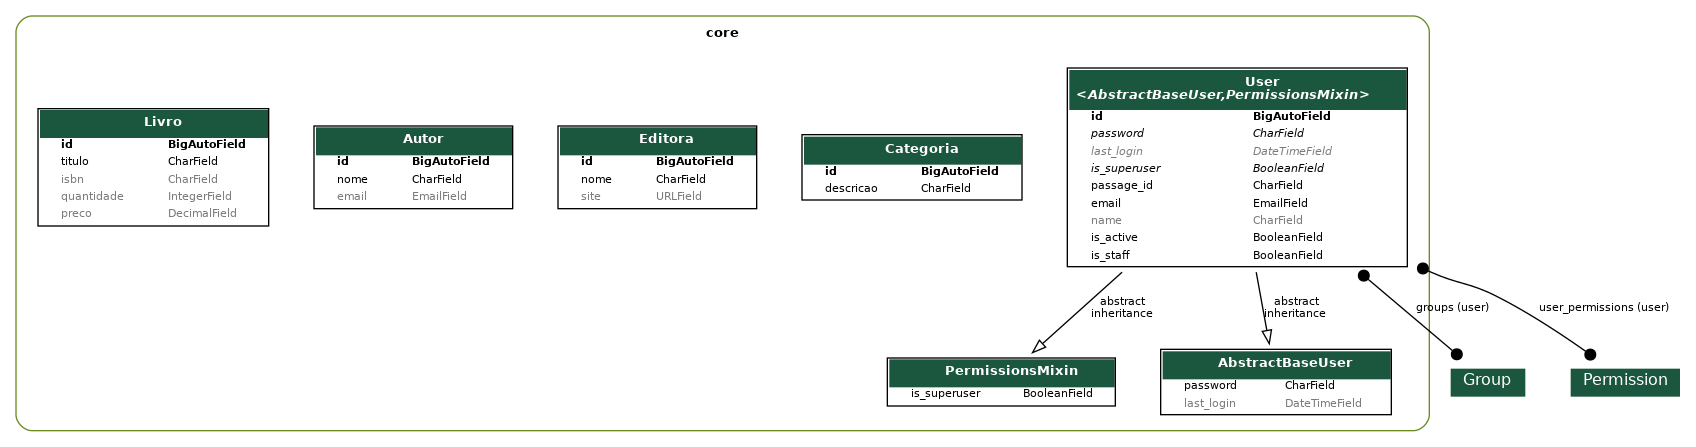
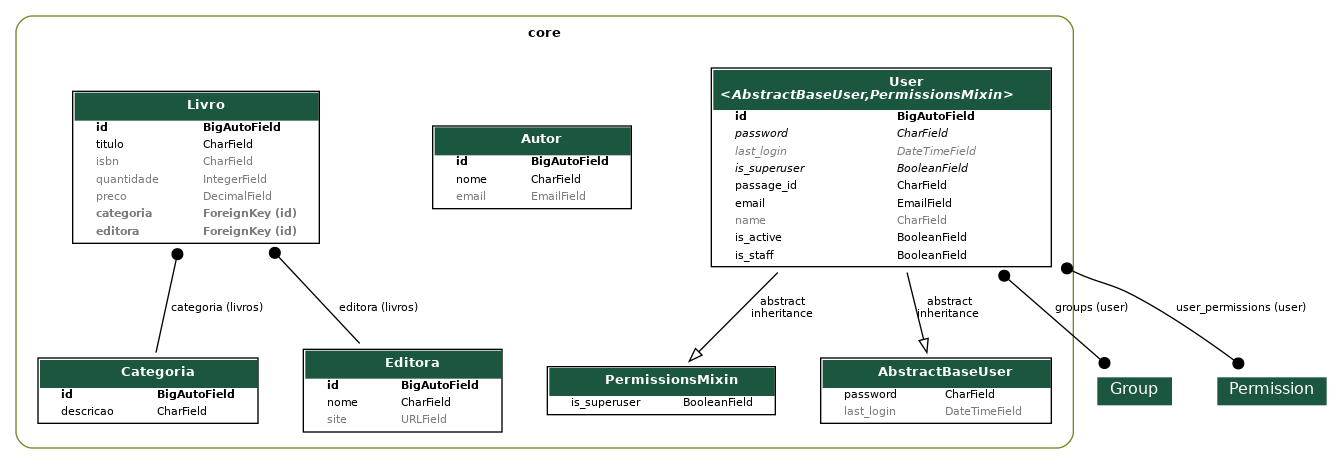
feat: inclusão do relacionamento de Livro com Categoria e Editora

diff --git a/core/migrations/0009_livro_categoria_livro_editora.py b/core/migrations/0009_livro_categoria_livro_editora.py
@@ -1,0 +1,36 @@
+# Generated by Django 5.1.2 on 2025-04-15 11:31
+
+import django.db.models.deletion
+from django.db import migrations, models
+
+
+class Migration(migrations.Migration):
+
+    dependencies = [
+        ("core", "0008_livro"),
+    ]
+
+    operations = [
+        migrations.AddField(
+            model_name="livro",
+            name="categoria",
+            field=models.ForeignKey(
+                blank=True,
+                null=True,
+                on_delete=django.db.models.deletion.PROTECT,
+                related_name="livros",
+                to="core.categoria",
+            ),
+        ),
+        migrations.AddField(
+            model_name="livro",
+            name="editora",
+            field=models.ForeignKey(
+                blank=True,
+                null=True,
+                on_delete=django.db.models.deletion.PROTECT,
+                related_name="livros",
+                to="core.editora",
+            ),
+        ),
+    ]

diff --git a/core/models/livro.py b/core/models/livro.py
@@ -1,10 +1,14 @@
 from django.db import models
+from .categoria import Categoria
+from .editora import Editora
 
 class Livro(models.Model):
     titulo = models.CharField(max_length=255)
     isbn = models.CharField(max_length=32, null=True, blank=True)
     quantidade = models.IntegerField(default=0,  null=True, blank=True)
     preco = models.DecimalField(max_digits=7, decimal_places=2, default=0, null=True, blank=True)
+    categoria = models.ForeignKey(Categoria, on_delete=models.PROTECT, related_name="livros", null=True, blank=True)
+    editora = models.ForeignKey(Editora, on_delete=models.PROTECT, related_name="livros", null=True, blank=True)
 
     def __str__(self):
         return f"({self.id}) {self.titulo} ({self.quantidade})"
